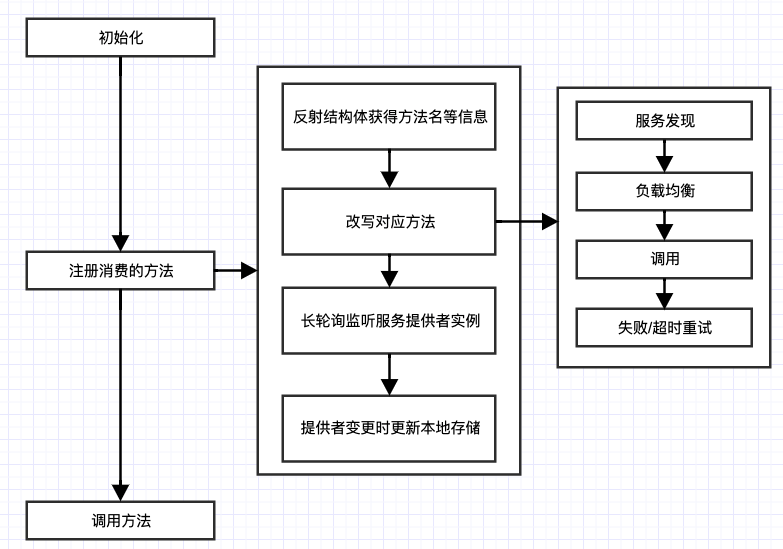
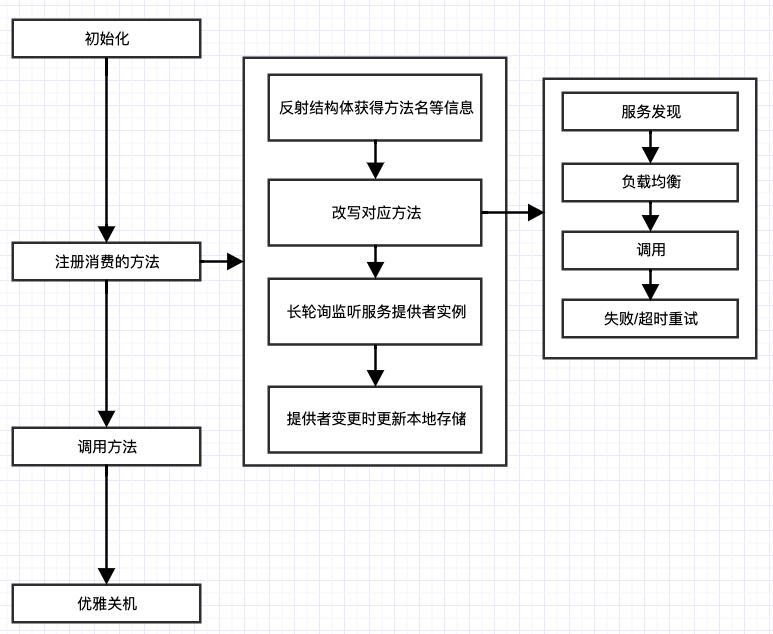
opt doc

Changed region(s): [[0.0, 0.0, 0.9935, 0.9909]]

diff --git a/consumer/consumer.go b/consumer/consumer.go
@@ -250,7 +250,6 @@ func (c *RpcConsumer) RegistryConsumer(name string, service interface{}) error {
 			for {
 				select {
 				case <-ctx.Done():
-					logger.Debug("watcher cancel!")
 					return
 				case <-pss.Watch(ctx):
 					continue

diff --git a/doc/Consumer.md b/doc/Consumer.md
@@ -40,19 +40,25 @@ res, rpcErr := p.Hello(HelloRequest{Target: "World"})
 
 根据配置粒度大小的规则，获得每个方法的核心信息。
 
-##### 服务发现
+##### 核心逻辑
+
+核心逻辑被封装在一个匿名函数中。rpc call成功时，返回一个`<-chan []reflect.Value`，失败时则返回`nil`通道，同时向`callFailCh`写入错误信息。具体调用过程如下：
+
+**(1) 服务发现**
 
 morax consumer启动单独的goroutine对consul注册中心进行长轮询，将获取到的消费端订阅的服务实例信息同步到消费端的存储中。
 
-详见“长轮询监听服务提供者”一节。
+详见**“长轮询监听服务提供者”**。
 
-##### 负载均衡
+**(2) 负载均衡**
 
 通过配置文件指定的负载均衡算法，选出对应的`net/rpc` client实例。
 
-##### 调用
+**(3) 调用**
 
 同步调用通过`client.Call()`方法实现
+
+##### 失败/超时重试
 
 当超时发生，或调用失败，应及时终止调用逻辑，因此，执行rpc call的函数采用context实现取消：
 
@@ -62,19 +68,16 @@ invoke := func(ctx context.Context, timer *time.Timer, isRetry bool) {
     timer.Reset(time.Millisecond * time.Duration(info.Timeout))
   }
 
-  for {
-    select {
-      case <-ctx.Done():
-      return
-      default:
-      core(ctx)
-      return
-    }
+  select {
+    case res := <-core(ctx):
+    callSuccessCh <- res
+    return
+    case <-ctx.Done():
+    return
   }
+
 }
 ```
-
-##### 失败/超时重试
 
 上述`invoke`函数将在单独的goroutine中执行，通过三个channel传递调用结果：
 
@@ -90,5 +93,66 @@ invoke := func(ctx context.Context, timer *time.Timer, isRetry bool) {
 
 consul不具有推送服务状态变更的功能，需要通过长轮询机制去监听服务提供者实例的变更。
 
-morax中，该过程将在一个goroutine中实现。
+morax中，该过程将在一个goroutine中实现，并通过传递`context.Context`实现取消：
+
+```go
+go func(ctx context.Context) {
+  for {
+    select {
+      case <-ctx.Done():
+      return
+      case <-pss.Watch(ctx):
+      continue
+    }
+  }
+}(ctx)
+```
+
+`pss.Watch(ctx)`中，通过HTTP长轮询的方式监控服务提供者实例的状态
+
+```go
+// 阻塞
+services, meta, err := consul.FindServers(ctx, ps.providerName, ps.idx)
+```
+
+`consul.FinderServers()`函数中，通过如下方式：
+
+```go
+func FindServers(ctx context.Context, name string, idx uint64) ([]*consulapi.ServiceEntry, *consulapi.QueryMeta, error) {
+	qo := &consulapi.QueryOptions{WaitIndex: idx}
+	qo = qo.WithContext(ctx)
+	// 阻塞
+	return clientInfo.consulClient.Health().Service(name, "", true, qo)
+}
+```
+
+传入`context`，实现取消功能，即底层的`http.Request.WithContext()`
+
+#### 提供者变更时更新本地存储
+
+提供者实例发生变化时，`clientInfo.consulClient.Health().Service(name, "", true, qo)`即返回，如果存在错误，或者无实例，则消费者存储置为`nil`
+
+当成功返回实例信息时，将之前的信息与当前信息进行比较：
+
+* 之前不存在而现在存在的实例进行新增
+* 之前存在现在不存在的要剔除
+* 之前存在现在也存在的实例不变
+
+其中，“新增”是指创建新的`rpc.Client`，删除是指，关闭已有的`rpc.Client`，同时从本地存储中移除。
+
+同时，存储返回的`index`，便于下一次请求使用。
+
+除存储实例信息，也需要更新实例Id的列表，便于进行负载均衡。
+
+### 3.调用方法
+
+完成消费方法注册后，传入的结构体的成员字段即获得了新的赋值。即可通过此结构体进行rpc调用。
+
+### 4.优雅关机
+
+消费者服务下线时，需要进行优雅关机，释放对应资源，包括：
+
+* rpc client包含的goroutine和http connections
+* 监控服务端实例信息的watcher goroutine本身和其中consul client包含的http client
+* consul client底层的http client的idle connections
 
